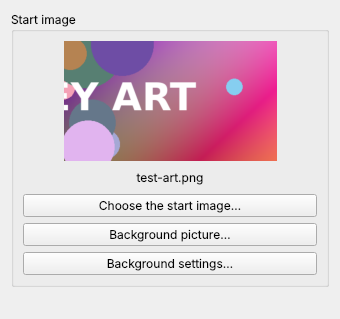
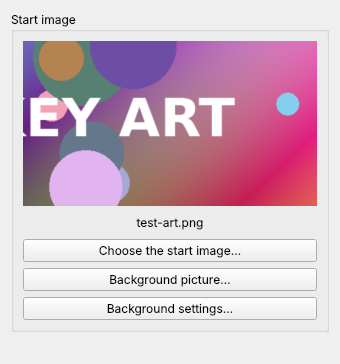
Background dock: the start image picture fits the dock's width
Claude-Session: https://claude.ai/code/session_01AkZzWGBxMrGHVePemUnc9z

diff --git a/src/dock/stagekit-dock.cpp b/src/dock/stagekit-dock.cpp
@@ -54,6 +54,7 @@ the Free Software Foundation; either version 2 of the License, or
 #include <QElapsedTimer>
 #include <QWheelEvent>
 #include <QMouseEvent>
+#include <QResizeEvent>
 #include <QPixmap>
 #include <QPushButton>
 #include <QScrollArea>
@@ -93,8 +94,15 @@ public:
 	std::function<void(double steps)> on_wheel;
 	std::function<void(double dx, double dy)> on_drag; // in fractions of the thumbnail
 	std::function<void()> on_reset;
+	std::function<void()> on_resize;
 
 protected:
+	void resizeEvent(QResizeEvent *event) override
+	{
+		QLabel::resizeEvent(event);
+		if (on_resize && event->size().width() != event->oldSize().width())
+			on_resize();
+	}
 	void wheelEvent(QWheelEvent *event) override
 	{
 		if (on_wheel)
@@ -229,6 +237,10 @@ public:
 		start_thumb_->setAlignment(Qt::AlignCenter);
 		start_thumb_->setSizePolicy(QSizePolicy::Ignored, QSizePolicy::Fixed);
 		start_thumb_->setFixedHeight(kThumbHeight);
+		// The picture is as wide as the dock allows.
+		start_thumb_->on_resize = [this] {
+			show_thumb();
+		};
 		auto *choose = new QPushButton(tr_text("Dock.StartChoose"), start_box);
 		choose->setObjectName("chooseStartImage");
 		QObject::connect(choose, &QPushButton::clicked, this, [this] {
@@ -363,8 +375,16 @@ private:
 			const double w = pw / thumb_zoom_, h = ph / thumb_zoom_;
 			const double x = std::clamp(thumb_x_ * pw - w / 2.0, 0.0, pw - w);
 			const double y = std::clamp(thumb_y_ * ph - h / 2.0, 0.0, ph - h);
+			// As wide as the dock, but never so tall that the buttons below
+			// are pushed out of a short dock.
+			const int room_w = start_thumb_->width() > 40 ? start_thumb_->width() : 320;
+			const QWidget *around = parentWidget();
+			const int room_h = std::max(kThumbHeight, (around ? around->height() : 100000) - kBelowThumb);
+			const QSize fit = QSizeF(w, h).scaled(room_w, room_h, Qt::KeepAspectRatio).toSize();
 			picture = thumb_full_.copy(QRectF(x, y, w, h).toRect())
-					  .scaledToHeight(kThumbHeight, Qt::SmoothTransformation);
+					  .scaled(fit, Qt::IgnoreAspectRatio, Qt::SmoothTransformation);
+			if (start_thumb_->height() != fit.height())
+				start_thumb_->setFixedHeight(std::max(1, fit.height()));
 		}
 		start_thumb_->setPixmap(picture);
 		start_thumb_->setVisible(!picture.isNull());
@@ -393,6 +413,7 @@ private:
 	}
 
 	static constexpr int kThumbHeight = 120;
+	static constexpr int kBelowThumb = 200; // the label and buttons under the picture
 	QLabel *start_label_ = nullptr;
 	Thumb *start_thumb_ = nullptr;
 	QPixmap thumb_full_;

diff --git a/tests/ambient-test.cpp b/tests/ambient-test.cpp
@@ -2817,9 +2817,32 @@ int main(int argc, char **argv)
 					sleep_ms(50);
 				}
 				auto *thumb = dock->findChild<QLabel *>("startThumb");
+				dock->grab();
+				QCoreApplication::processEvents();
 				const QPixmap shown = thumb ? thumb->pixmap() : QPixmap();
-				CHECK(!shown.isNull() && shown.height() == 120,
-				      "the dock shows a small picture of the start image");
+				CHECK(!shown.isNull() && thumb && std::abs(shown.width() - thumb->width()) <= 2,
+				      "the dock shows a picture of the start image as wide as the dock allows (%d of %d)",
+				      shown.width(), thumb ? thumb->width() : 0);
+				{
+					const int before_w = shown.width();
+					dock->resize(520, 700);
+					dock->grab(); // lays the hidden dock out, as showing it would
+					for (int i = 0; i < 6; i++) {
+						QCoreApplication::processEvents();
+						sleep_ms(30);
+					}
+					const QPixmap wider = thumb ? thumb->pixmap() : QPixmap();
+					CHECK(wider.width() > before_w + 100 &&
+						      std::abs(wider.width() - thumb->width()) <= 2,
+					      "and it grows when the dock is made wider (%d -> %d)", before_w,
+					      wider.width());
+					dock->resize(340, 320);
+					dock->grab();
+					for (int i = 0; i < 6; i++) {
+						QCoreApplication::processEvents();
+						sleep_ms(30);
+					}
+				}
 				CHECK(dock->minimumSizeHint().width() <= narrow,
 				      "a long start image file name does not widen the dock (%d, was %d)",
 				      dock->minimumSizeHint().width(), narrow);

diff --git a/DEVELOPMENT_HANDOFF.md b/DEVELOPMENT_HANDOFF.md
@@ -204,6 +204,13 @@ information), which is what the template uses for pushes to `main`.
   the scene-collection rebuild. Scope: merging rebuild changes after green checks and publishing them
   as pre-releases. Not covered: a stable release, visibility or access changes, unrelated work.
 
+## Thumbnail fits the dock (0.1.0-beta34)
+
+The owner: "stagekit background in dock should scale to fit the dock size". `Thumb` reports width
+changes; `show_thumb` scales the picture to the label's width and sets the label's height to match,
+capped so the buttons stay visible in a short dock (`kBelowThumb`). Their screenshot also confirmed
+the AVIF thumbnail fix from beta27 on Windows.
+
 ## Outline made from the picture, redone (0.1.0-beta33)
 
 The owner ran beta31 on Windows (so the Outline and Compose shaders compile on Direct3D) and showed a

diff --git a/docs/releases/0.1.0-beta34.md b/docs/releases/0.1.0-beta34.md
@@ -1,0 +1,19 @@
+# StageKit 0.1.0-beta34
+
+Thirty-fourth pre-release: the start image picture fits the dock. It passes the automated tests on
+Linux; **it has not been run in OBS on Windows yet.**
+
+## What's changed
+
+- **The picture in the StageKit Background dock is as wide as the dock.** It grows and shrinks as you
+  resize the dock, keeping its shape. In a short dock it stops growing before it would push the
+  buttons out of view. The wheel, drag and double-click on it work as before.
+
+## Installing on Windows
+
+Close OBS and run `stagekit-0.1.0-windows-x64-Installer.exe`. It installs over an earlier version.
+
+## Known limits
+
+- The installer and the macOS package are not signed by a publisher.
+- File names carry the base version, 0.1.0.

diff --git a/README.md b/README.md
@@ -375,7 +375,7 @@ Studio Mode).
 
 **StageKit Background**
 
-- A thumbnail of the start image. Turn the mouse wheel on it for a closer look, drag to move around,
+- A picture of the start image, as wide as the dock. Turn the mouse wheel on it for a closer look, drag to move around,
   double-click to reset; this changes only the thumbnail, never your scene.
 - The start image is also the moving background's picture. *Background picture…* gives the
   background a picture of its own; *Background settings…* opens the Ambient Background's settings.
